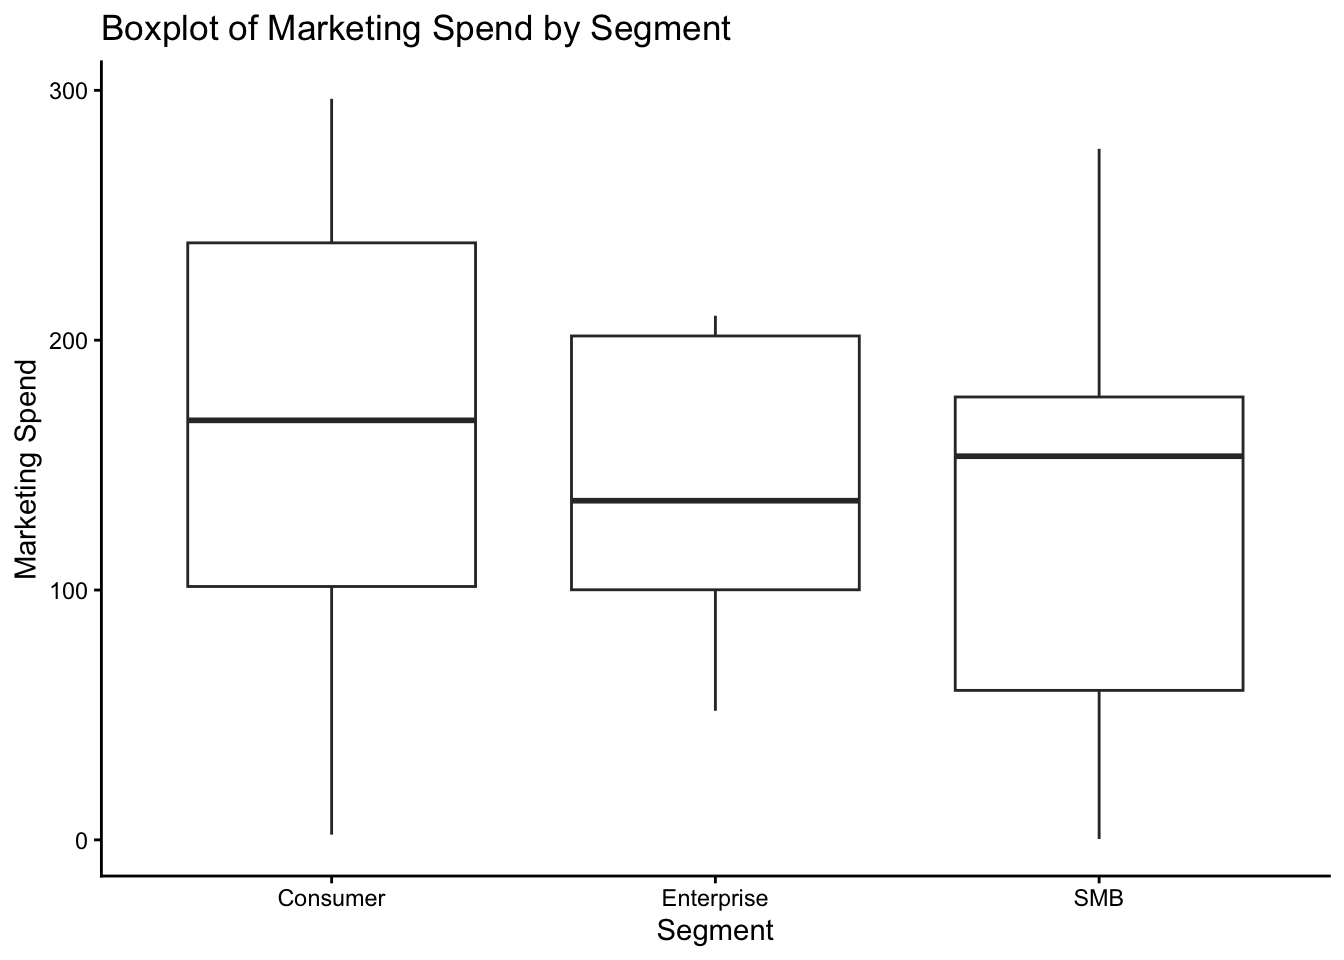
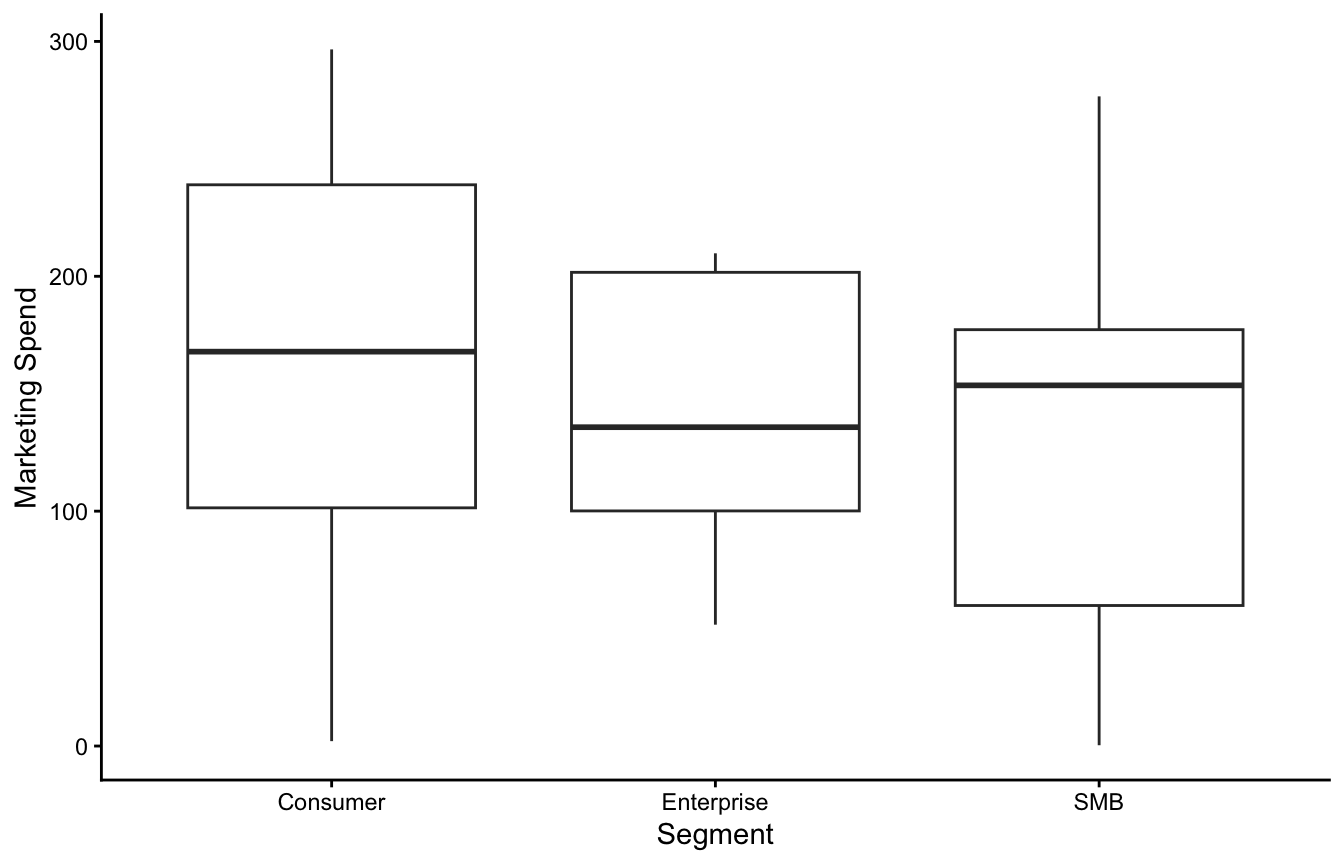
Improved wording and formatting, updated renders

diff --git a/Assignment1_Report.html b/Assignment1_Report.html
@@ -144,10 +144,10 @@ Table&nbsp;1: Mean marketing spend and purchase amount by segment
 <p><a href="#tbl-dataset-means" class="quarto-xref">Table&nbsp;1</a> shows that the “Consumer” segment has the highest mean marketing spend and purchase amount, followed by the “Enterprise” segment, and then the “SMB” segment. This suggests that there may be differences in marketing spend and purchase amount across different customer segments, which will be further explored in the analysis.</p>
 <div class="cell">
 <div class="cell-output-display">
-<div id="fig-boxplots" class="quarto-float quarto-figure quarto-figure-center anchored">
+<div id="fig-boxplots" class="quarto-float quarto-figure quarto-figure-center anchored" data-fig-pos="H">
 <figure class="quarto-float quarto-float-fig figure">
 <div aria-describedby="fig-boxplots-caption-0ceaefa1-69ba-4598-a22c-09a6ac19f8ca">
-<img src="Assignment1_Report_files/figure-html/fig-boxplots-1.png" class="img-fluid figure-img" width="672">
+<img src="Assignment1_Report_files/figure-html/fig-boxplots-1.png" class="img-fluid figure-img" style="width:80.0%" data-fig-pos="H">
 </div>
 <figcaption class="quarto-float-caption-bottom quarto-float-caption quarto-float-fig" id="fig-boxplots-caption-0ceaefa1-69ba-4598-a22c-09a6ac19f8ca">
 Figure&nbsp;1: Boxplots of marketing spend by segment
@@ -156,7 +156,7 @@ Figure&nbsp;1: Boxplots of marketing spend by segment
 </div>
 </div>
 </div>
-<p><a href="#fig-boxplots" class="quarto-xref">Figure&nbsp;1</a> shows that the median marketing spend is much closer between the three segments, than the means shown in <a href="#tbl-dataset-means" class="quarto-xref">Table&nbsp;1</a>. This suggests that there may be some outliers in the “Consumer” segment that are driving up the mean marketing spend for that segment, but these are beyond the scope of this analysis. <a href="#fig-boxplots" class="quarto-xref">Figure&nbsp;1</a> also shows that the “Enterprise” segment has the smallest range and variability of the three segments.</p>
+<p><a href="#fig-boxplots" class="quarto-xref">Figure&nbsp;1</a> shows that the median marketing spend is closer between the three segments, than the means shown in <a href="#tbl-dataset-means" class="quarto-xref">Table&nbsp;1</a>. This is likely due to some skew present in the “Consumer” segment. The “Consumer” segment also has the largest range and variability of marketing spend, as shown by the length of the boxplot whiskers. In contrast, <a href="#fig-boxplots" class="quarto-xref">Figure&nbsp;1</a> shows that the “Enterprise” segment has the smallest range and variability of the three segments (while also having the fewest overall observations).</p>
 </section>
 </section>
 <section id="results" class="level2">
@@ -215,8 +215,8 @@ Table&nbsp;2
 </div>
 </div>
 <p><a href="#tbl-correlations" class="quarto-xref">Table&nbsp;2</a> shows that the correlation coefficient between marketing spend and purchase amount is highest for the “Consumer” segment (0.87), followed by the “SMB” segment (0.79) and then the “Enterprise” segment (0.77).</p>
-<p>Cumulatively, these results suggest that there is a positive correlation between marketing spend and purchase amount across all segments, with the strongest correlation observed in the “Consumer” segment. This indicates that higher marketing spend is associated with higher purchase amounts, particularly for consumers.</p>
-<p>While this investigation is purely correlational and does not establish causation, it provides valuable insights into the relationship between marketing spend and purchase amount, and how this relationship varies across different customer segments. Future analyses could explore potential causal mechanisms or measure the sensitivity of each segment more thoroughly.</p>
+<p>Cumulatively, these results suggest that there is a positive correlation between marketing spend and purchase amount across all segments, with the strongest correlation observed in the “Consumer” segment. This indicates that higher marketing spend is associated with higher purchase amounts, particularly for “Consumer” customers.</p>
+<p>While this investigation is purely correlational and does not establish causation, it provides valuable insights into the relationship between marketing spend and purchase amount, and how this relationship varies across different customer segments. Future analyses could explore potential causal mechanisms or measure the sensitivity of each segment more thoroughly, to conclude whether increased marketing spend directly increases purchase amounts.</p>
 </section>
 
 </main>
